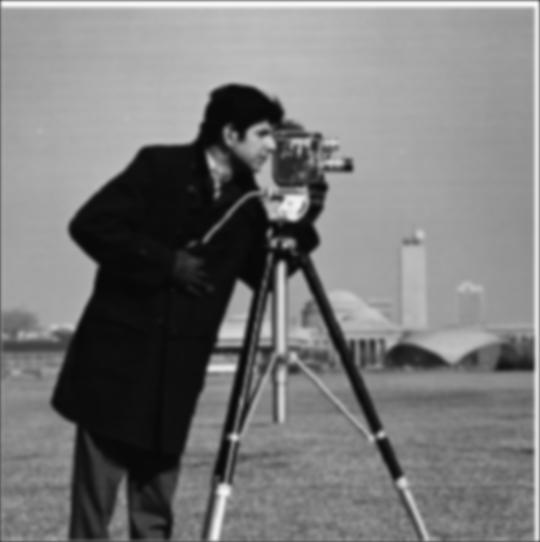
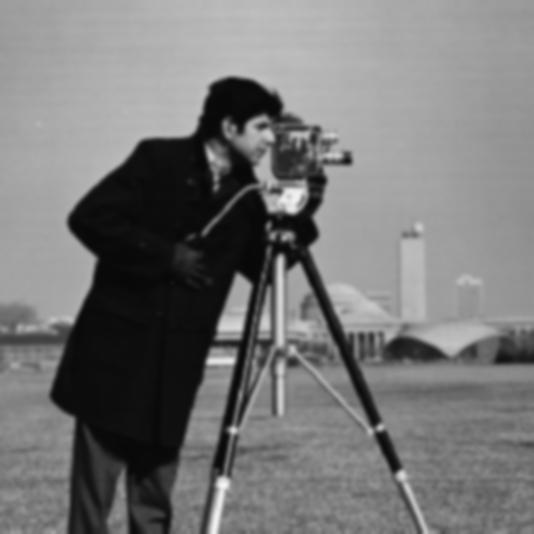
docs(proj2): clarify part 1 results

diff --git a/docs/proj2/index.html b/docs/proj2/index.html
@@ -69,37 +69,76 @@
     <section id="part-1-2">
       <div class="section-heading"><span>1.2</span><h2>Finite difference operator</h2></div>
       <div class="prose">
-        <p>I convolved the cameraman with Dx and Dy to measure how quickly brightness changes in each direction. Neither derivative alone contains every edge, so I combined them into the gradient magnitude <span class="formula">√(Dx² + Dy²)</span>. Large values mean the image changes sharply at that pixel.</p>
-        <p>I compared thresholds of 0.10, 0.15, and 0.23. At 0.10, the grass adds a lot of noise. At 0.23, parts of the tripod and distant buildings disappear. I chose 0.15 because it keeps more of those real edges, even though some grass remains. Values above the threshold become 1 and the rest become 0.</p>
+        <p>The cameraman is the test image for edges. I cropped the white frame that came with the source image so it would not turn into a false rectangular edge. Then I convolved the image with the same Dx and Dy operators from 1.1. A large response means brightness jumps in that direction.</p>
       </div>
-      <div class="gallery four">
-        <figure><img src="assets/cameraman.jpg" alt="Original cameraman image" /><figcaption><b>Original</b></figcaption></figure>
-        <figure><img src="assets/cameraman_dx.jpg" alt="Cameraman partial derivative in x" /><figcaption><b>Partial derivative Dx</b></figcaption></figure>
-        <figure><img src="assets/cameraman_dy.jpg" alt="Cameraman partial derivative in y" /><figcaption><b>Partial derivative Dy</b></figcaption></figure>
+      <div class="gallery narrow">
+        <figure><img src="assets/cameraman.jpg" alt="Original cameraman image" /><figcaption><b>Cameraman</b></figcaption></figure>
+      </div>
+
+      <h3>Partial derivatives</h3>
+      <p class="intro">Dx lights up vertical structure (coat, tripod legs). Dy lights up horizontal structure (hat brim, camera body). Mid-gray is near zero. Brighter and darker pixels are positive and negative slopes after I stretched each result to [0, 1] for display.</p>
+      <div class="gallery two">
+        <figure><img src="assets/cameraman_dx.jpg" alt="Cameraman partial derivative in x" /><figcaption><b>Dx</b><span>Vertical edges</span></figcaption></figure>
+        <figure><img src="assets/cameraman_dy.jpg" alt="Cameraman partial derivative in y" /><figcaption><b>Dy</b><span>Horizontal edges</span></figcaption></figure>
+      </div>
+
+      <h3>Gradient magnitude</h3>
+      <p class="intro">Neither map has every edge, so I combined them with <span class="formula">√(Dx² + Dy²)</span>. Bright pixels change quickly in some direction. This is still a grayscale strength map, not a yes/no edge image yet. Grass texture is already visible as speckle.</p>
+      <div class="gallery narrow">
         <figure><img src="assets/cameraman_gradient.jpg" alt="Cameraman gradient magnitude" /><figcaption><b>Gradient magnitude</b></figcaption></figure>
       </div>
-      <div class="gallery three">
-        <figure><img src="assets/edges_0.1.png" alt="Cameraman edges at threshold 0.10" /><figcaption><b>0.10</b><span>More edges, but lots of grass</span></figcaption></figure>
-        <figure><img src="assets/edges_0.15.png" alt="Cameraman binarized edges at threshold 0.15" /><figcaption><b>0.15</b><span>Final edge image</span></figcaption></figure>
-        <figure><img src="assets/edges_0.23.png" alt="Cameraman edges at threshold 0.23" /><figcaption><b>0.23</b><span>Cleaner, but misses real edges</span></figcaption></figure>
+
+      <h3>Binarizing: two rejects, then the chosen cut</h3>
+      <p class="intro">I divided the magnitude by its max, then kept pixels above a threshold. That choice is qualitative: keep the tripod and buildings, kill as much grass as I can. 0.10 and 0.23 miss that tradeoff in opposite ways.</p>
+      <div class="trial-grid">
+        <figure>
+          <span class="badge badge-reject">Rejected</span>
+          <img src="assets/edges_0.1.png" alt="Rejected cameraman edges at threshold 0.10" />
+          <figcaption><b>Threshold 0.10</b><span>Too much grass speckle. The outline is complete, but the field reads as noise.</span></figcaption>
+        </figure>
+        <figure>
+          <span class="badge badge-reject">Rejected</span>
+          <img src="assets/edges_0.23.png" alt="Rejected cameraman edges at threshold 0.23" />
+          <figcaption><b>Threshold 0.23</b><span>Grass is mostly gone, but the tripod, coat folds, and far buildings break up.</span></figcaption>
+        </figure>
       </div>
+      <figure class="final-result">
+        <span class="badge badge-chosen">Chosen result</span>
+        <img src="assets/edges_0.15.png" alt="Chosen cameraman edge image at threshold 0.15" />
+        <figcaption><b>Threshold 0.15</b><span>This is the edge image I am presenting. Some grass remains, but the cameraman, tripod, and skyline stay connected. I would rather keep a little texture than erase real structure.</span></figcaption>
+      </figure>
     </section>
 
     <section id="part-1-3">
       <div class="section-heading"><span>1.3</span><h2>Derivative of Gaussian</h2></div>
       <div class="prose">
-        <p>I smoothed the cameraman with a 9 × 9 Gaussian with σ = 2, then repeated the Dx and Dy calculation. Blurring suppresses small brightness changes before the derivative filters can turn them into noisy edges.</p>
-        <p>The new edges are thicker because the blur spreads each transition across more pixels. They are also cleaner. Much of the grass and small texture fades away while the main outline of the cameraman stays visible.</p>
-        <p>Doing “blur, then differentiate” sounds like two separate convolutions, but convolution is associative. I convolved the Gaussian with Dx and Dy first to make two derivative-of-Gaussian filters, then applied each combined filter once. The maximum difference between the two pipelines was 1.16 × 10<sup>−15</sup>, and their thresholded edge maps had zero differing pixels, so they are the same apart from floating-point rounding.</p>
+        <p>The 1.2 edge map is noisy because Dx and Dy respond to every small brightness change in the grass. A Gaussian blur first removes that high-frequency texture. I built a 9 × 9 kernel with <code>cv2.getGaussianKernel</code> (σ = 2) and its outer product, then tried two equivalent pipelines.</p>
       </div>
-      <div class="gallery four">
-        <figure><img src="assets/cameraman_blurred.jpg" alt="Gaussian blurred cameraman" /><figcaption><b>Gaussian blur</b><span>9 × 9, σ = 2</span></figcaption></figure>
-        <figure><img src="assets/dog_x_filter.jpg" alt="Derivative of Gaussian filter in x" /><figcaption><b>DoG x filter</b></figcaption></figure>
-        <figure><img src="assets/dog_y_filter.jpg" alt="Derivative of Gaussian filter in y" /><figcaption><b>DoG y filter</b></figcaption></figure>
-        <figure><img src="assets/blurred_gradient.jpg" alt="Gradient magnitude after Gaussian smoothing" /><figcaption><b>Blur then differentiate</b></figcaption></figure>
-        <figure><img src="assets/dog_gradient.jpg" alt="Gradient magnitude using derivative of Gaussian filters" /><figcaption><b>Single DoG convolution</b></figcaption></figure>
-        <figure><img src="assets/blurred_edges.png" alt="Thresholded edges after blur then derivative" /><figcaption><b>Two-step edges</b><span>Threshold = 0.15</span></figcaption></figure>
-        <figure><img src="assets/dog_edges.png" alt="Thresholded edges using derivative of Gaussian" /><figcaption><b>DoG edges</b><span>Identical to the two-step result</span></figcaption></figure>
+
+      <h3>Method 1: blur the image, then take derivatives</h3>
+      <p class="intro">Convolve with G, then with Dx and Dy, then form the same magnitude and 0.15 threshold as in 1.2. The blur is the only new ingredient.</p>
+      <div class="gallery narrow">
+        <figure><img src="assets/cameraman_blurred.jpg" alt="Gaussian blurred cameraman" /><figcaption><b>After Gaussian blur</b><span>9 × 9, σ = 2. Compare with the original in 1.2.</span></figcaption></figure>
+      </div>
+      <div class="gallery two">
+        <figure><img src="assets/blurred_gradient.jpg" alt="Gradient magnitude after Gaussian smoothing" /><figcaption><b>Gradient magnitude</b><span>Dx and Dy on the blurred image</span></figcaption></figure>
+        <figure><img src="assets/blurred_edges.png" alt="Thresholded edges after blur then derivative" /><figcaption><b>Binarized edges</b><span>Same threshold 0.15</span></figcaption></figure>
+      </div>
+
+      <h3>What changed versus finite differences</h3>
+      <p class="intro">Compare this edge map with the chosen 1.2 result above. Most grass speckle disappears. The remaining edges are thicker because the blur spreads each transition over more pixels before the derivative runs. The cameraman and tripod stay clear, although some faint background edges are lost too. Both maps were normalized by their own maximum before the 0.15 cut, so this is the same relative threshold, not the same raw gradient value.</p>
+
+      <h3>Method 2: fuse the filters, then convolve once</h3>
+      <p class="intro">Convolution is associative, so blur-then-Dx is the same as convolving the image with (G ∗ Dx). I convolved the Gaussian with Dx and with Dy to get two derivative-of-Gaussian filters, then applied each once to the original cameraman. Both methods use the same symmetric padding and crop only at the end. Cropping the intermediate blur would change the border pixels. The kernels below are shown pixelated so their positive and negative lobes are readable.</p>
+      <div class="gallery two kernels">
+        <figure><img src="assets/dog_x_filter.png" alt="Derivative of Gaussian filter in x, shown as a small kernel" /><figcaption><b>DoG x</b><span>G ∗ Dx</span></figcaption></figure>
+        <figure><img src="assets/dog_y_filter.png" alt="Derivative of Gaussian filter in y, shown as a small kernel" /><figcaption><b>DoG y</b><span>G ∗ Dy</span></figcaption></figure>
+      </div>
+      <div class="gallery narrow">
+        <figure><img src="assets/dog_edges.png" alt="Thresholded edges using derivative of Gaussian" /><figcaption><b>DoG edges</b><span>Same result as method 1 at threshold 0.15</span></figcaption></figure>
+      </div>
+      <div class="prose">
+        <p>These match method 1. Max absolute difference on the gradient maps was 1.16 × 10<sup>−15</sup>. The two binarized images differ in zero pixels. Each combined filter replaces blur-plus-derivative for one direction. The picture does not change.</p>
       </div>
     </section>
 

diff --git a/docs/proj2/style.css b/docs/proj2/style.css
@@ -121,6 +121,50 @@ figcaption b { color: #245477; }
 .gallery.four { grid-template-columns: repeat(4, minmax(0, 1fr)); }
 .gallery.five { grid-template-columns: repeat(5, minmax(0, 1fr)); }
 .gallery.one { grid-template-columns: minmax(0, 1fr); }
+.gallery.narrow { grid-template-columns: minmax(0, 420px); }
+.gallery.kernels { grid-template-columns: repeat(2, 180px); justify-content: start; align-items: start; }
+.gallery.kernels img {
+  width: 140px;
+  height: 140px;
+  margin: 0 auto;
+  image-rendering: pixelated;
+  border: 1px solid var(--line);
+}
+
+.badge {
+  display: inline-block;
+  margin-bottom: 8px;
+  padding: 2px 8px;
+  border-radius: 3px;
+  font-family: ui-monospace, SFMono-Regular, Menlo, monospace;
+  font-size: .72rem;
+  font-weight: 700;
+  letter-spacing: .04em;
+  text-transform: uppercase;
+}
+.badge-reject { background: #f3e6e6; color: #8b2e2e; }
+.badge-chosen { background: var(--accent); color: #fff; }
+
+.trial-grid {
+  display: grid;
+  grid-template-columns: repeat(2, minmax(0, 1fr));
+  gap: 24px 18px;
+  margin: 28px 0 0 80px;
+  max-width: 640px;
+}
+.trial-grid figure { opacity: .92; }
+.trial-grid img { border: 1px solid #e3c8c8; }
+
+.final-result {
+  max-width: 560px;
+  margin: 32px 0 0 80px;
+  padding: 16px 16px 18px;
+  border: 2px solid var(--accent);
+  border-radius: 6px;
+  background: #fff;
+}
+.final-result img { border: 1px solid var(--line); }
+
 .small-hybrid { width: 96px; height: 96px; image-rendering: auto; }
 .credits details { margin-top: 18px; }
 .credits summary { color: var(--accent); cursor: pointer; }
@@ -137,11 +181,16 @@ figcaption b { color: #245477; }
 .stack-grid figcaption, .figure-grid figcaption { align-items: center; }
 .stack-grid img, .figure-grid img { background: #e8eaeb; }
 
+@media print {
+  .trial-grid, .final-result, .gallery.two { break-inside: avoid; }
+  .final-result { max-width: 420px; }
+}
+
 @media (max-width: 700px) {
   body { width: min(100% - 32px, 1160px); }
   main { padding-top: 48px; }
   .section-heading { grid-template-columns: 48px 1fr; }
-  .prose, .intro, .note, h3, h4, .gallery, .code-grid, .stack-grid, .figure-grid { margin-left: 0; }
-  .gallery, .gallery.one, .gallery.two, .gallery.three, .gallery.four, .gallery.five, .code-grid { grid-template-columns: 1fr; }
+  .prose, .intro, .note, h3, h4, .gallery, .code-grid, .stack-grid, .figure-grid, .trial-grid, .final-result { margin-left: 0; }
+  .gallery, .gallery.one, .gallery.two, .gallery.three, .gallery.four, .gallery.five, .gallery.kernels, .code-grid, .trial-grid { grid-template-columns: 1fr; }
   .stack-grid, .figure-grid { grid-template-columns: repeat(2, minmax(0, 1fr)); }
 }
